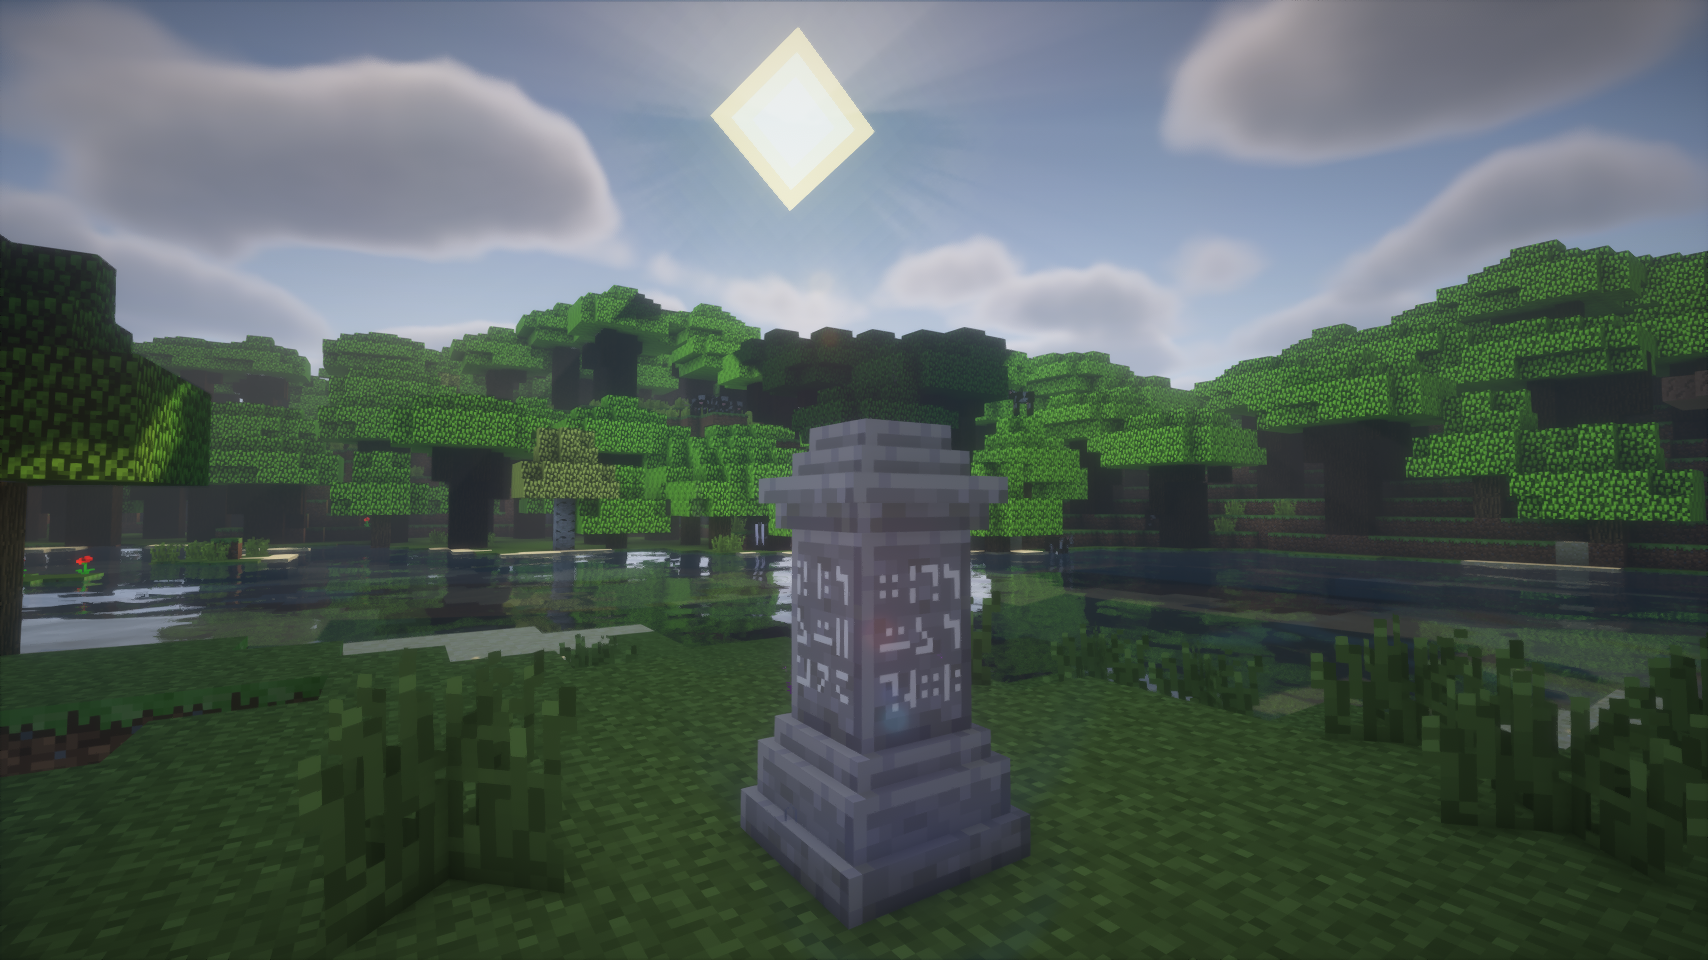
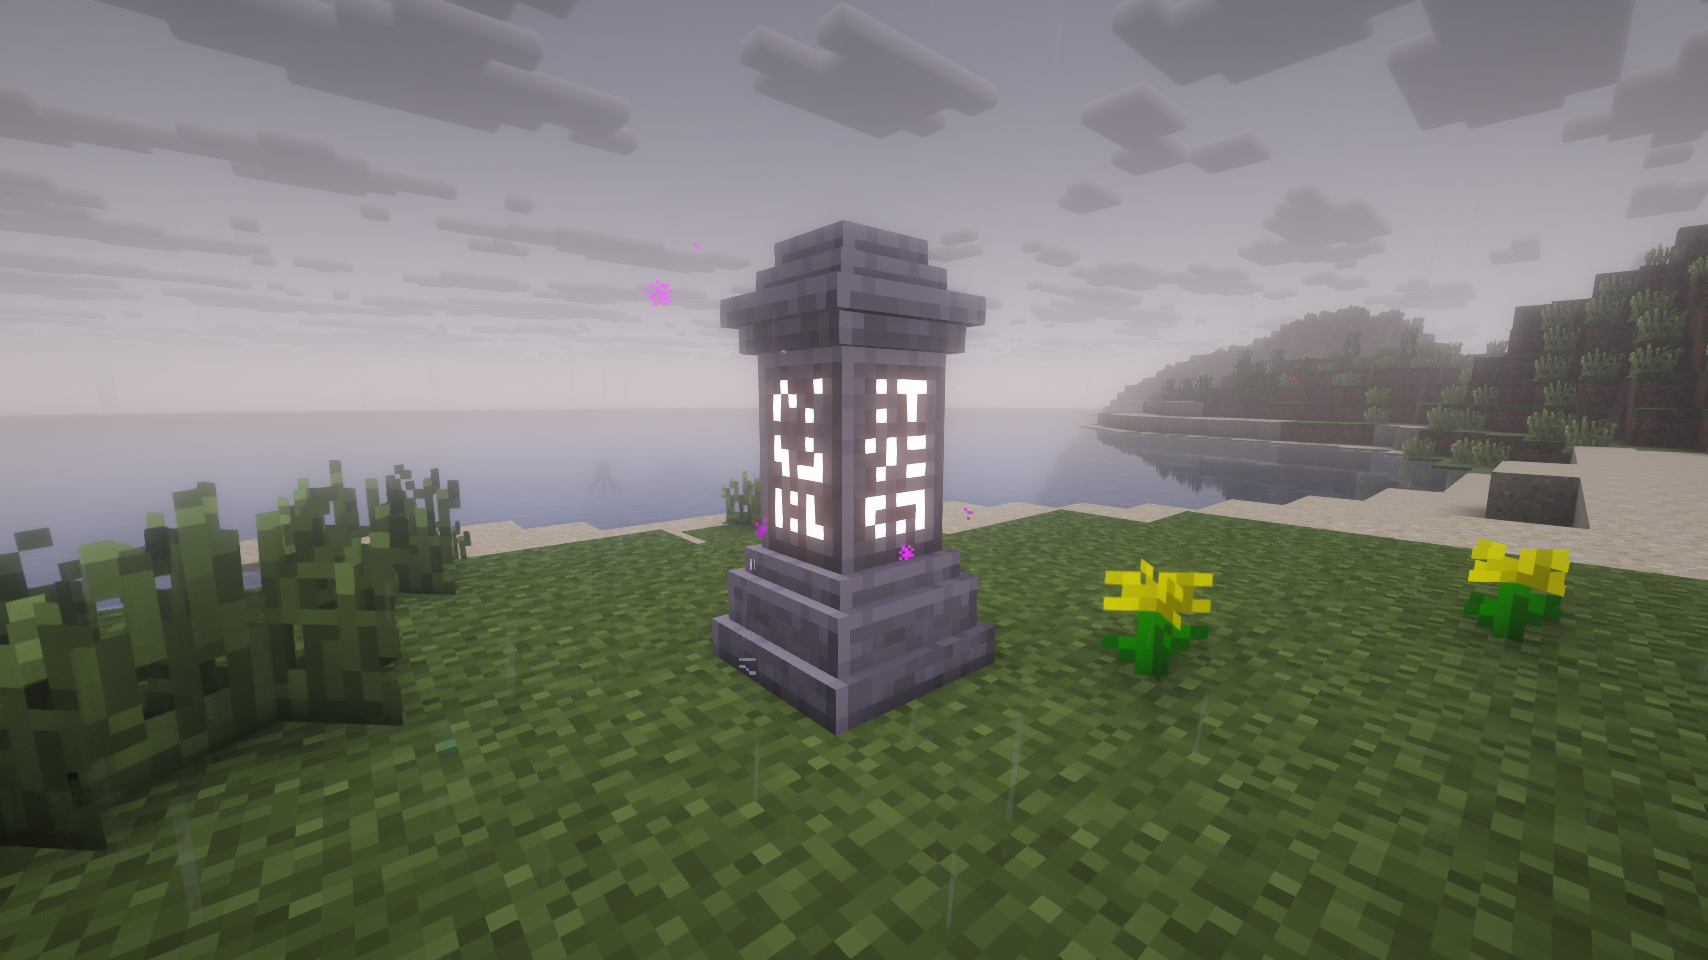
added screenshots, fixed virtual resourcepack not working in prod

diff --git a/src/main/java/net/blay09/mods/waystones/mixins/early/minecraft/MixinResourcePackRepository.java b/src/main/java/net/blay09/mods/waystones/mixins/early/minecraft/MixinResourcePackRepository.java
@@ -36,6 +36,53 @@ public class MixinResourcePackRepository {
     @Unique
     private static WaystonesAlternateResourcePack waystones$alternatePack;
 
+    @Unique
+    private static ResourcePackRepository.Entry waystones$createEntry(ResourcePackRepository self, File file)
+        throws Exception {
+        Constructor<?>[] constructors = ResourcePackRepository.Entry.class.getDeclaredConstructors();
+        for (Constructor<?> ctor : constructors) {
+            Class<?>[] params = ctor.getParameterTypes();
+            if (params.length < 2) {
+                continue;
+            }
+            if (!ResourcePackRepository.class.isAssignableFrom(params[0])) {
+                continue;
+            }
+            if (!File.class.isAssignableFrom(params[1])) {
+                continue;
+            }
+
+            Object[] args = new Object[params.length];
+            args[0] = self;
+            args[1] = file;
+            for (int i = 2; i < params.length; i++) {
+                args[i] = waystones$defaultArg(params[i]);
+            }
+
+            ctor.setAccessible(true);
+            return (ResourcePackRepository.Entry) ctor.newInstance(args);
+        }
+        throw new NoSuchMethodException(
+            "No compatible ResourcePackRepository.Entry constructor found in "
+                + ResourcePackRepository.Entry.class.getName());
+    }
+
+    @Unique
+    private static Object waystones$defaultArg(Class<?> type) {
+        if (!type.isPrimitive()) {
+            return null;
+        }
+        if (type == boolean.class) return false;
+        if (type == byte.class) return (byte) 0;
+        if (type == short.class) return (short) 0;
+        if (type == int.class) return 0;
+        if (type == long.class) return 0L;
+        if (type == float.class) return 0f;
+        if (type == double.class) return 0d;
+        if (type == char.class) return '\0';
+        return null;
+    }
+
     @SuppressWarnings("unchecked")
     @Inject(method = "updateRepositoryEntriesAll", at = @At("RETURN"))
     private void waystones$injectAlternatePack(CallbackInfo ci) {
@@ -53,13 +100,9 @@ public class MixinResourcePackRepository {
                 waystones$alternatePack = new WaystonesAlternateResourcePack();
             }
 
-            // Create Entry via reflection (synthetic constructor is package-private)
+            // Constructor shape differs between dev/prod bytecode (synthetic bridge may be absent/present).
             ResourcePackRepository self = (ResourcePackRepository) (Object) this;
-            Constructor<?> ctor = ResourcePackRepository.Entry.class
-                .getDeclaredConstructor(ResourcePackRepository.class, File.class, Object.class);
-            ctor.setAccessible(true);
-            ResourcePackRepository.Entry entry = (ResourcePackRepository.Entry) ctor
-                .newInstance(self, new File("waystones_modernity"), null);
+            ResourcePackRepository.Entry entry = waystones$createEntry(self, new File("waystones_modernity"));
 
             // Populate fields via accessor instead of calling updateResourcePack()
             AccessorResourcePackRepositoryEntry accessor = (AccessorResourcePackRepositoryEntry) entry;

diff --git a/.changelogs/1.0.9.md b/.changelogs/1.0.9.md
@@ -1,14 +1,19 @@
-* Added sandy, mossy, nether, end, cracked stone waystone variants
-* Village waystones now use path/surface blocks for variant selection
-* Added sandy/mossy path block config lists with cached lookup
-* Added waystone worldgen to desert temple, jungle temple, stronghold, fortress, end spike and world spawn
-* Added structure worldgen rules (`structureWaystoneRules`) with chance, type, name, forceGlobal, autoActivateGlobal, dimension whitelist and biome whitelist
-* Structure rules now properly respect `enableWorldgen`
-* Improved teleport placement so players don't get tpd into waystones/walls as often
-* Moved worldgen config into worldgen category
-* Renamed config entries to variable-style names (camelCase). regenerate config
-* Waystone and waystone nametag AO and render fixes
-* Smooth cooldown charging animation of the waystone overlay
-* By default global waystone warps aren't free anymore
-* Creative warps don't affect cooldown
-* New Waystone textures and modernity textures by Darkbum
+* Added new waystone variants: sandy, mossy, stonebrick, mossy stonebrick, nether and end.
+* Village waystones now generate on village path/surface blocks.
+* Added configurable structure worldgen rules (`structureWaystoneRules`).
+* Added structure rule filters for dimensions and biomes.
+* Added structure waystone spawning in desert temple, jungle temple, stronghold, fortress, end spike and world spawn.
+* Fixed structure rules ignoring `enableWorldgen`.
+* Renamed config keys to variable-style names (camelCase).
+* Improved teleport placement to avoid spawning inside waystones/walls.
+* Global waystones are no longer free by default.
+* Creative warps no longer count toward survival cooldown.
+* Reworked waystone overlay charging animation and clipping.
+* Fixed end/nether overlay rendering issues.
+* Fixed end worldgen decorating crash.
+* Added waystone item icons for all variants and flat inventory icon support.
+* Added end portal-like particles for end waystones.
+* Moved dimension warp command to FentLib.
+* Added new waystone textures + modernity textures (as virtual resource pack) (by DarkBum).
+
+When upgrading, regenerate your config!

diff --git a/README.md b/README.md
@@ -36,7 +36,7 @@ Teleport back to activated waystones. For Survival, Adventure or Servers.
 * Waystone renaming.
 * Pinned Waystones which appear at the top of the list.
 * Global Waystones are stored in the save NBT, no more conflicts.
-* Sandy and Mossy Waystones.
+* Sandstone, Mossy, (Mossy) Stonebrick, Netherbrick, Endstone Waystone variants.
 
 ### Worldgen configuration system:
 You can define a list of rules under the `structureWaystoneRules` key in the config. Each rule can have the following properties:
@@ -49,8 +49,7 @@ You can define a list of rules under the `structureWaystoneRules` key in the con
 * `dimensionWhitelist`: Allowed dimension IDs, comma-separated (for example `0,-1,1`) or `*` for all.
 * `biomeWhitelist`: Allowed biome IDs, comma-separated (for example `2,17,21`) or `*` for all.
 
-Example: `structure=village;chance=0.35;type=auto;dimensionWhitelist=0;biomeWhitelist=2,17,35
-`
+Example: `structure=village;chance=0.35;type=auto;dimensionWhitelist=0;biomeWhitelist=2,17,35`
 
 Currently supported `structure` ids:
 * `village`
